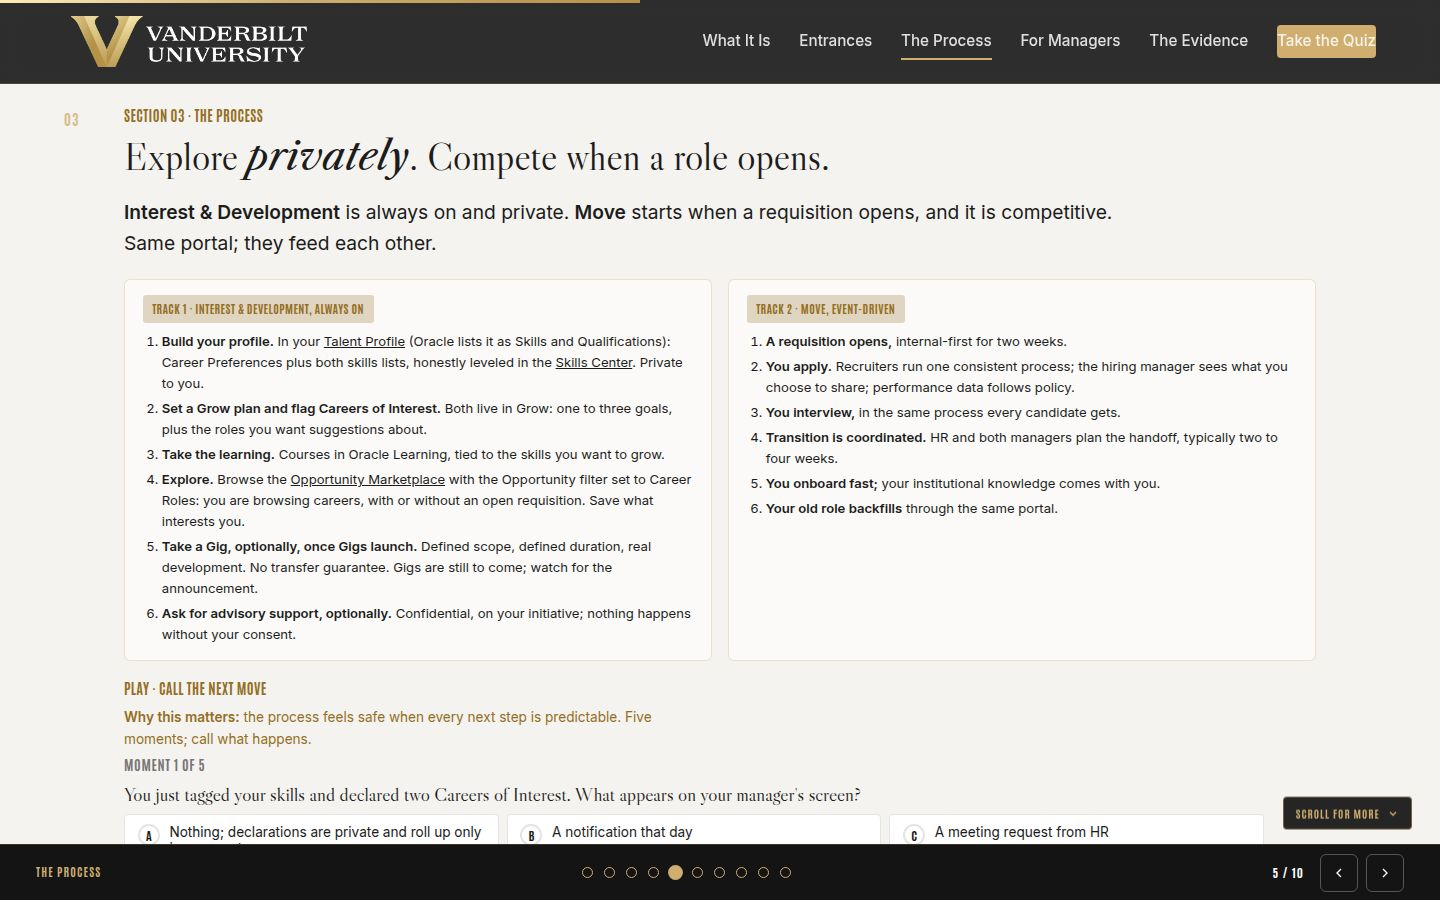
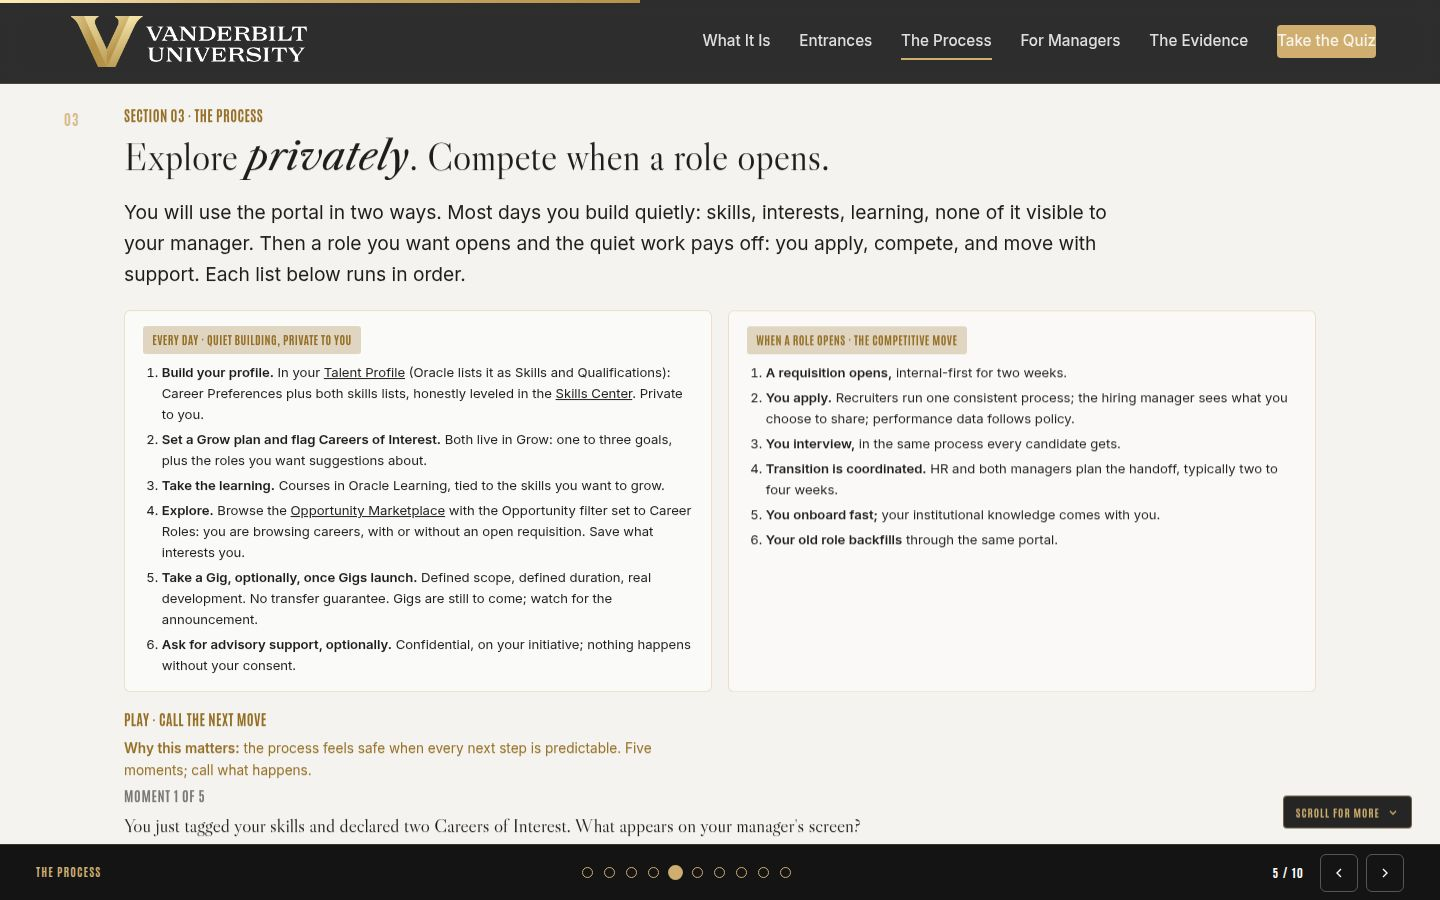
Plain-language process framing and new Talent Compass URL
The process slide now says what it teaches: quiet building most days,
the competitive move when a role opens; track tags renamed to match.
Talent Compass links point to vanderbilttalentcompass.vercel.app.

Claude-Session: https://claude.ai/code/session_013tDBVkmLuRfSx6Efv12VME

diff --git a/facilitator/index.html b/facilitator/index.html
@@ -528,11 +528,11 @@ body.fac-hide .facshow { display: inline-flex; }
     <div class="wrap">
       <p class="eyebrow" data-reveal>Section 03 · The Process</p>
       <h2 class="h2" data-reveal>Explore <em>privately</em>. Compete when a role opens.</h2>
-      <p class="lead" data-reveal><b>Interest &amp; Development</b> is always on and private. <b>Move</b> starts when a requisition opens, and it is competitive. Same portal; they feed each other.</p>
+      <p class="lead" data-reveal>You will use the portal in two ways. Most days you build quietly: skills, interests, learning, none of it visible to your manager. Then a role you want opens and the quiet work pays off: you apply, compete, and move with support. Each list below runs in order.</p>
 
       <div class="tracks">
         <div class="track" data-reveal>
-          <span class="tag">Track 1 · Interest &amp; Development, always on</span>
+          <span class="tag">Every day · Quiet building, private to you</span>
           <ol>
             <li><b>Build your profile.</b> In your <a href="https://ecsr.fa.us2.oraclecloud.com/fscmUI/faces/deeplink?objType=NFX_VIEW_MY_SKILLS_AND_QUAL_VB&action=NONE">Talent Profile</a> (Oracle lists it as Skills and Qualifications): Career Preferences plus both skills lists, honestly leveled in the <a href="https://ecsr.fa.us2.oraclecloud.com/fscmUI/redwood/profiles/skills/skillscenter?navigateBack=true">Skills Center</a>. Private to you.</li>
             <li><b>Set a Grow plan and flag Careers of Interest.</b> Both live in Grow: one to three goals, plus the roles you want suggestions about.</li>
@@ -543,7 +543,7 @@ body.fac-hide .facshow { display: inline-flex; }
           </ol>
         </div>
         <div class="track" data-reveal>
-          <span class="tag">Track 2 · Move, event-driven</span>
+          <span class="tag">When a role opens · The competitive move</span>
           <ol>
             <li><b>A requisition opens,</b> internal-first for two weeks.</li>
             <li><b>You apply.</b> Recruiters run one consistent process; the hiring manager sees what you choose to share; performance data follows policy.</li>
@@ -583,7 +583,7 @@ body.fac-hide .facshow { display: inline-flex; }
         </div>
       </details>
     </div>
-    <aside class="facnote" aria-label="Facilitator notes"><div class="facnote__head"><span>Facilitator script</span><span class="facnote__time">Full 2 min · Core 1</span><button class="facnote__hide" type="button" aria-label="Hide the facilitator script">Hide</button></div><p class="facnote__purpose">Make every step predictable, including disclosure timing.</p><div class="facnote__blk"><span class="facnote__tag t-say">Say</span><p class="facnote__script">&ldquo;Two tracks. Interest and Development: always on, private; profile, Grow plan, the Opportunity Marketplace, an optional Gig, optional advisory. Move: a requisition posts internally first, you apply and interview, and if you win it, a coordinated handoff, then your old role backfills through the same portal. One rule everyone wonders about: explore silently, and talk to your manager once you're a serious candidate.&rdquo;</p></div><div class="facnote__blk"><span class="facnote__tag t-do">Do</span><ol class="facnote__steps"><li>Tracks in two breaths.</li><li>Point out the live Oracle links: Talent Profile, Skills Center, Opportunity Marketplace with Opportunity set to Career Roles.</li><li>Run Call the Next Move as a fast vote.</li></ol></div><p class="facnote__meta"><b>Validate:</b> 4+ of 5 on the trainer.</p><p class="facnote__meta"><b>Watch for:</b> The 'guaranteed job' misread: the window guarantees first look, the interview is yours to win. And name the Gig caveat if asked: Gigs are still to launch; the step arrives with them.</p><div class="facnote__blk"><span class="facnote__tag t-tra">Transition</span><p class="facnote__script">&ldquo;Now the section that decides whether any of this works.&rdquo;</p></div><p class="facnote__meta facnote__core"><b>60-min core:</b> Core: tracks in one breath each, trainer as one vote.</p></aside>
+    <aside class="facnote" aria-label="Facilitator notes"><div class="facnote__head"><span>Facilitator script</span><span class="facnote__time">Full 2 min · Core 1</span><button class="facnote__hide" type="button" aria-label="Hide the facilitator script">Hide</button></div><p class="facnote__purpose">Make every step predictable, including disclosure timing.</p><div class="facnote__blk"><span class="facnote__tag t-say">Say</span><p class="facnote__script">&ldquo;You will use the portal in two ways. Day to day, quiet building, private to you: profile, Grow plan, learning, the Opportunity Marketplace, optional advisory. Then a role opens, and the quiet work pays off: it posts internally first, you apply and interview, and if you win it, a coordinated handoff, then your old role backfills through the same portal. One rule everyone wonders about: explore silently, and talk to your manager once you're a serious candidate.&rdquo;</p></div><div class="facnote__blk"><span class="facnote__tag t-do">Do</span><ol class="facnote__steps"><li>Tracks in two breaths.</li><li>Point out the live Oracle links: Talent Profile, Skills Center, Opportunity Marketplace with Opportunity set to Career Roles.</li><li>Run Call the Next Move as a fast vote.</li></ol></div><p class="facnote__meta"><b>Validate:</b> 4+ of 5 on the trainer.</p><p class="facnote__meta"><b>Watch for:</b> The 'guaranteed job' misread: the window guarantees first look, the interview is yours to win. And name the Gig caveat if asked: Gigs are still to launch; the step arrives with them.</p><div class="facnote__blk"><span class="facnote__tag t-tra">Transition</span><p class="facnote__script">&ldquo;Now the section that decides whether any of this works.&rdquo;</p></div><p class="facnote__meta facnote__core"><b>60-min core:</b> Core: tracks in one breath each, trainer as one vote.</p></aside>
   </section>
 
   <!-- ============ 7 · 04 THE CULTURE SHIFT ============ -->
@@ -806,7 +806,7 @@ body.fac-hide .facshow { display: inline-flex; }
         <div class="card" data-reveal>
           <span class="tag">02 · The Talent Compass Tool</span>
           <p class="muted">Map your skills and build a growth plan. Managers: evaluate the skills across your team.</p>
-          <p style="margin-top:.75rem"><a class="btn" href="https://me5231979.github.io/skill_matrix/">Open the Talent Compass Tool</a></p>
+          <p style="margin-top:.75rem"><a class="btn" href="https://vanderbilttalentcompass.vercel.app/">Open the Talent Compass Tool</a></p>
         </div>
         <div class="card" data-reveal>
           <span class="tag">03 · Career Preferences</span>

diff --git a/index.html b/index.html
@@ -428,11 +428,11 @@
     <div class="wrap">
       <p class="eyebrow" data-reveal>Section 03 · The Process</p>
       <h2 class="h2" data-reveal>Explore <em>privately</em>. Compete when a role opens.</h2>
-      <p class="lead" data-reveal><b>Interest &amp; Development</b> is always on and private. <b>Move</b> starts when a requisition opens, and it is competitive. Same portal; they feed each other.</p>
+      <p class="lead" data-reveal>You will use the portal in two ways. Most days you build quietly: skills, interests, learning, none of it visible to your manager. Then a role you want opens and the quiet work pays off: you apply, compete, and move with support. Each list below runs in order.</p>
 
       <div class="tracks">
         <div class="track" data-reveal>
-          <span class="tag">Track 1 · Interest &amp; Development, always on</span>
+          <span class="tag">Every day · Quiet building, private to you</span>
           <ol>
             <li><b>Build your profile.</b> In your <a href="https://ecsr.fa.us2.oraclecloud.com/fscmUI/faces/deeplink?objType=NFX_VIEW_MY_SKILLS_AND_QUAL_VB&action=NONE">Talent Profile</a> (Oracle lists it as Skills and Qualifications): Career Preferences plus both skills lists, honestly leveled in the <a href="https://ecsr.fa.us2.oraclecloud.com/fscmUI/redwood/profiles/skills/skillscenter?navigateBack=true">Skills Center</a>. Private to you.</li>
             <li><b>Set a Grow plan and flag Careers of Interest.</b> Both live in Grow: one to three goals, plus the roles you want suggestions about.</li>
@@ -443,7 +443,7 @@
           </ol>
         </div>
         <div class="track" data-reveal>
-          <span class="tag">Track 2 · Move, event-driven</span>
+          <span class="tag">When a role opens · The competitive move</span>
           <ol>
             <li><b>A requisition opens,</b> internal-first for two weeks.</li>
             <li><b>You apply.</b> Recruiters run one consistent process; the hiring manager sees what you choose to share; performance data follows policy.</li>
@@ -702,7 +702,7 @@
         <div class="card" data-reveal>
           <span class="tag">02 · The Talent Compass Tool</span>
           <p class="muted">Map your skills and build a growth plan. Managers: evaluate the skills across your team.</p>
-          <p style="margin-top:.75rem"><a class="btn" href="https://me5231979.github.io/skill_matrix/">Open the Talent Compass Tool</a></p>
+          <p style="margin-top:.75rem"><a class="btn" href="https://vanderbilttalentcompass.vercel.app/">Open the Talent Compass Tool</a></p>
         </div>
         <div class="card" data-reveal>
           <span class="tag">03 · Career Preferences</span>

diff --git a/web/index.html b/web/index.html
@@ -396,11 +396,11 @@
     <div class="wrap">
       <p class="eyebrow" data-reveal>Section 03 · The Process</p>
       <h2 class="h2" data-reveal>Explore <em>privately</em>. Compete when a role opens.</h2>
-      <p class="lead" data-reveal><b>Interest &amp; Development</b> is always on and private. <b>Move</b> starts when a requisition opens, and it is competitive. Same portal; they feed each other.</p>
+      <p class="lead" data-reveal>You will use the portal in two ways. Most days you build quietly: skills, interests, learning, none of it visible to your manager. Then a role you want opens and the quiet work pays off: you apply, compete, and move with support. Each list below runs in order.</p>
 
       <div class="tracks">
         <div class="track" data-reveal>
-          <span class="tag">Track 1 · Interest &amp; Development, always on</span>
+          <span class="tag">Every day · Quiet building, private to you</span>
           <ol>
             <li><b>Build your profile.</b> In your <a href="https://ecsr.fa.us2.oraclecloud.com/fscmUI/faces/deeplink?objType=NFX_VIEW_MY_SKILLS_AND_QUAL_VB&action=NONE">Talent Profile</a> (Oracle lists it as Skills and Qualifications): Career Preferences plus both skills lists, honestly leveled in the <a href="https://ecsr.fa.us2.oraclecloud.com/fscmUI/redwood/profiles/skills/skillscenter?navigateBack=true">Skills Center</a>. Private to you.</li>
             <li><b>Set a Grow plan and flag Careers of Interest.</b> Both live in Grow: one to three goals, plus the roles you want suggestions about.</li>
@@ -411,7 +411,7 @@
           </ol>
         </div>
         <div class="track" data-reveal>
-          <span class="tag">Track 2 · Move, event-driven</span>
+          <span class="tag">When a role opens · The competitive move</span>
           <ol>
             <li><b>A requisition opens,</b> internal-first for two weeks.</li>
             <li><b>You apply.</b> Recruiters run one consistent process; the hiring manager sees what you choose to share; performance data follows policy.</li>
@@ -652,7 +652,7 @@
         <div class="card" data-reveal>
           <span class="tag">02 · The Talent Compass Tool</span>
           <p class="muted">Map your skills and build a growth plan. Managers: evaluate the skills across your team.</p>
-          <p style="margin-top:.75rem"><a class="btn" href="https://me5231979.github.io/skill_matrix/">Open the Talent Compass Tool</a></p>
+          <p style="margin-top:.75rem"><a class="btn" href="https://vanderbilttalentcompass.vercel.app/">Open the Talent Compass Tool</a></p>
         </div>
         <div class="card" data-reveal>
           <span class="tag">03 · Career Preferences</span>

diff --git a/facilitator/guide.html b/facilitator/guide.html
@@ -153,7 +153,7 @@
     <div class="sec__notes">
     <h2>03 · The process <span class="mins">Full 2 min · Core 1</span></h2>
     <p class="purpose">Make every step predictable, including disclosure timing.</p>
-    <p class="tagline say">Say</p><p class="script">&ldquo;Two tracks. Interest and Development: always on, private; profile, Grow plan, the Opportunity Marketplace, an optional Gig, optional advisory. Move: a requisition posts internally first, you apply and interview, and if you win it, a coordinated handoff, then your old role backfills through the same portal. One rule everyone wonders about: explore silently, and talk to your manager once you're a serious candidate.&rdquo;</p>
+    <p class="tagline say">Say</p><p class="script">&ldquo;You will use the portal in two ways. Day to day, quiet building, private to you: profile, Grow plan, learning, the Opportunity Marketplace, optional advisory. Then a role opens, and the quiet work pays off: it posts internally first, you apply and interview, and if you win it, a coordinated handoff, then your old role backfills through the same portal. One rule everyone wonders about: explore silently, and talk to your manager once you're a serious candidate.&rdquo;</p>
     <p class="tagline">Do</p><ol><li>Tracks in two breaths.</li><li>Point out the live Oracle links: Talent Profile, Skills Center, Opportunity Marketplace with Opportunity set to Career Roles.</li><li>Run Call the Next Move as a fast vote.</li></ol>
     
     

diff --git a/cheatsheet.html b/cheatsheet.html
@@ -134,7 +134,7 @@
       <h2>Do this today, five moves</h2>
       <ol>
         <li><b>The growth conversation:</b> with your manager about your growth; managers, with a team member.</li>
-        <li><b>Talent Compass Tool:</b> build your plan, or as a manager evaluate your team's skills: <a href="https://me5231979.github.io/skill_matrix/">me5231979.github.io/skill_matrix</a></li>
+        <li><b>Talent Compass Tool:</b> build your plan, or as a manager evaluate your team's skills: <a href="https://vanderbilttalentcompass.vercel.app/">vanderbilttalentcompass.vercel.app</a></li>
         <li><b>Career Preferences:</b> update them in your Talent Profile in Oracle (next move, preferred function and family, aspirations).</li>
         <li><b>Skills:</b> make sure Skills I have and Skills I'm developing are current and honestly leveled.</li>
         <li><b>Careers of Interest:</b> flag them in the Grow area of Oracle, then browse the Opportunity Marketplace.</li>
